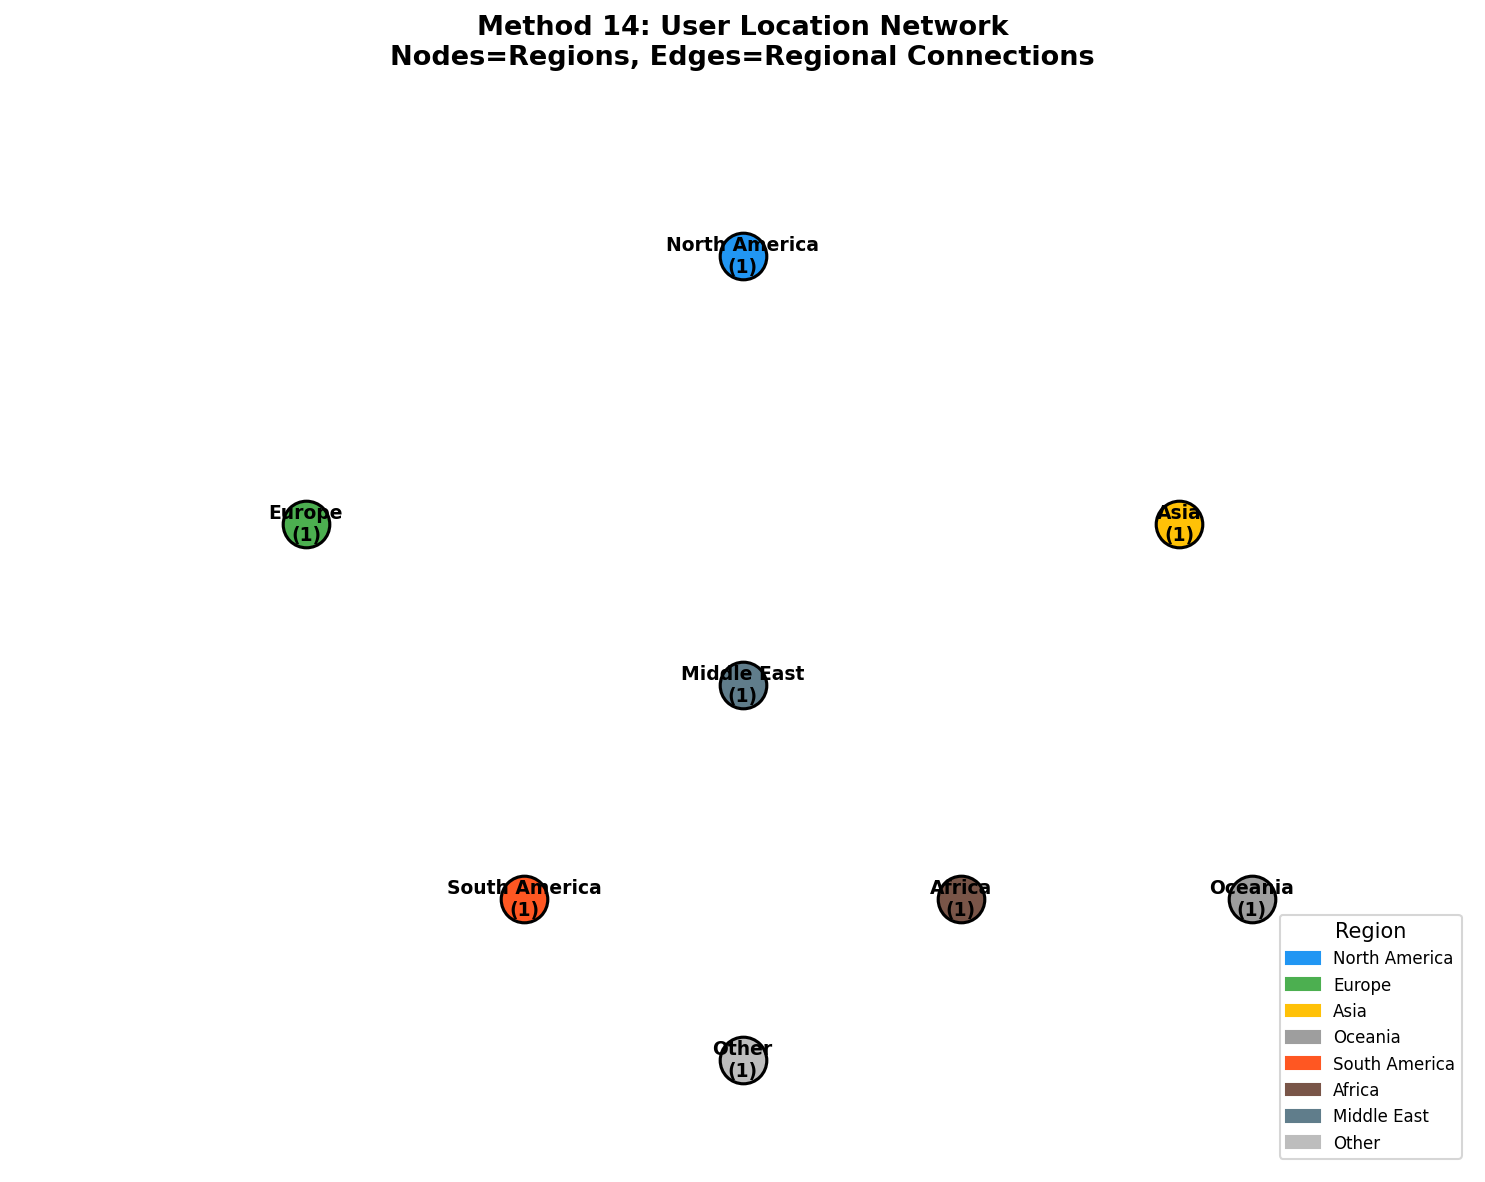
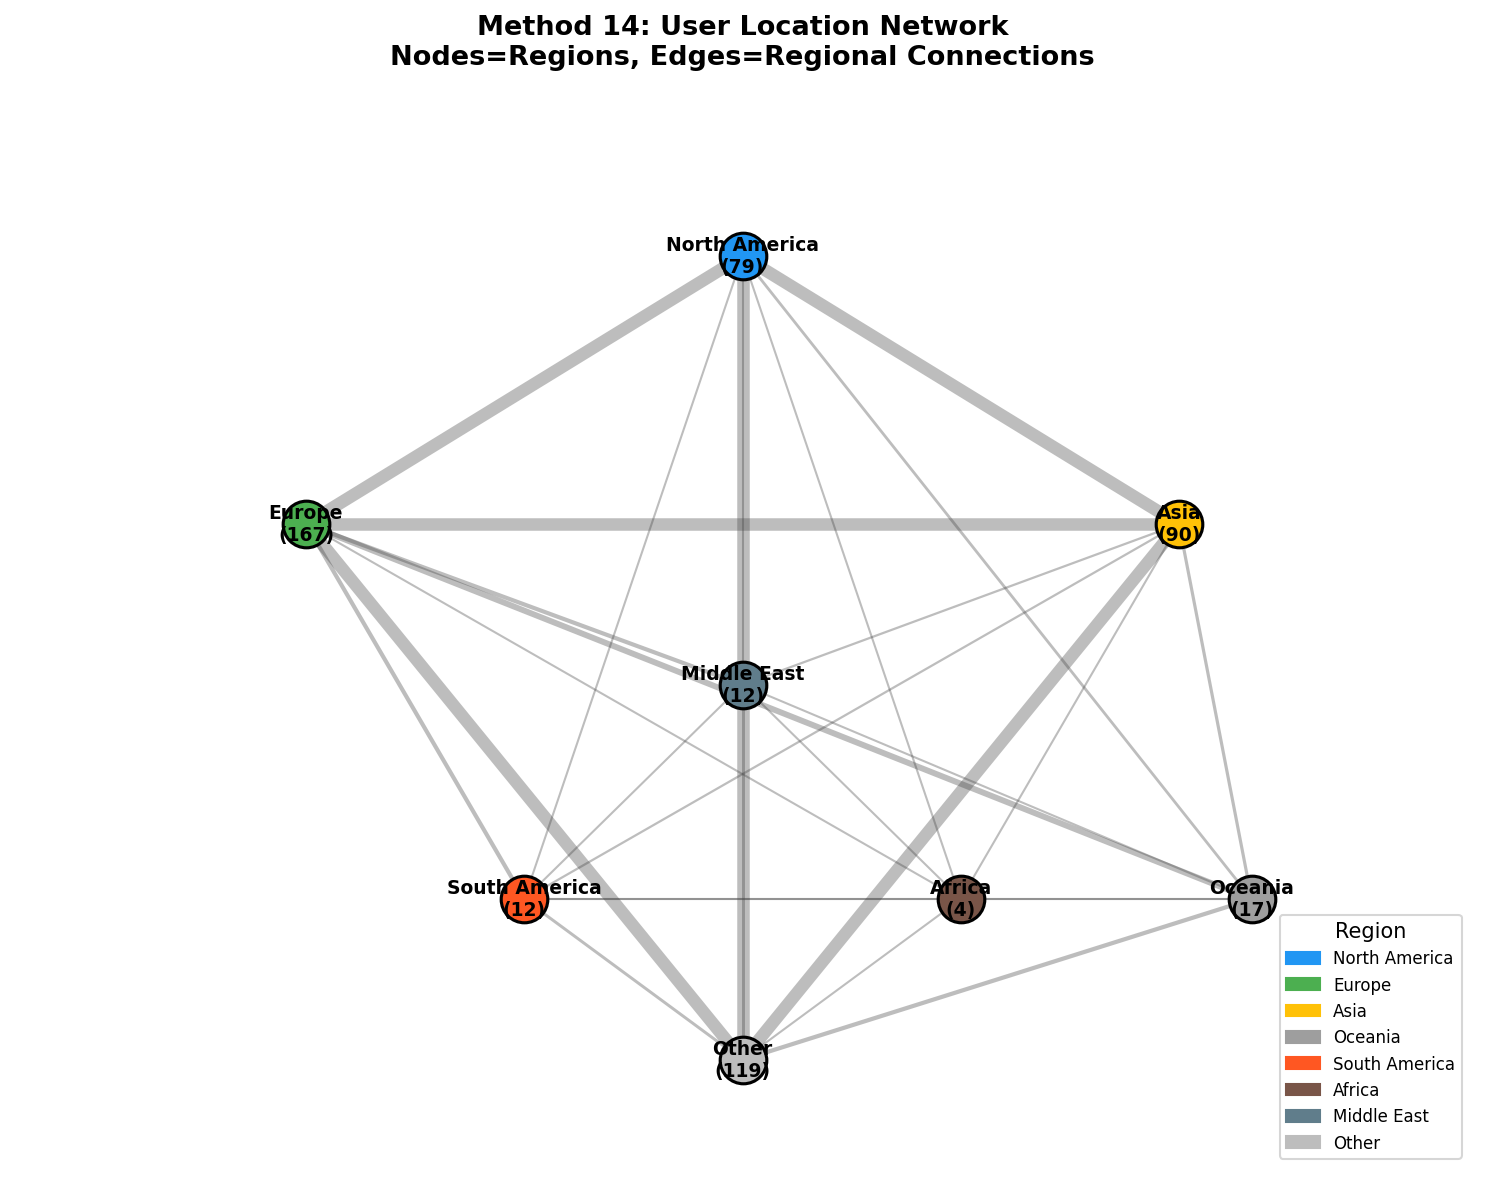
fix: 圖 14 聚合

diff --git a/src/sna_runner.py b/src/sna_runner.py
@@ -2044,12 +2044,41 @@ class SNARunner:
             region = v["region"] if "region" in attrs else "Other"
             if region not in region_counts:
                 region = "Other"
-            region_counts[region] += 1
+            if "user_count" in attrs:
+                try:
+                    region_counts[region] = v["user_count"]
+                except KeyError:
+                    region_counts[region] = region_counts[region]
+            else:
+                region_counts[region] += 1
 
         fig, ax = plt.subplots(figsize=(10, 8))
         ax.set_xlim(0, 1)
         ax.set_ylim(0, 1)
         ax.axis("off")
+
+        # Draw region-to-region connections using the graph edges
+        for edge in graph.es:
+            source = graph.vs[edge.tuple[0]]
+            target = graph.vs[edge.tuple[1]]
+            source_region = source["region"] if "region" in attrs else "Other"
+            target_region = target["region"] if "region" in attrs else "Other"
+            if source_region not in region_positions:
+                source_region = "Other"
+            if target_region not in region_positions:
+                target_region = "Other"
+            x1, y1 = region_positions[source_region]
+            x2, y2 = region_positions[target_region]
+            weight = edge["weight"] if "weight" in edge.attributes() else 1
+            linewidth = max(1.0, min(6.0, weight / 1000.0))
+            ax.plot(
+                [x1, x2],
+                [y1, y2],
+                color="#444444",
+                alpha=0.35,
+                linewidth=linewidth,
+                zorder=1,
+            )
 
         for region, count in region_counts.items():
             if count == 0:
